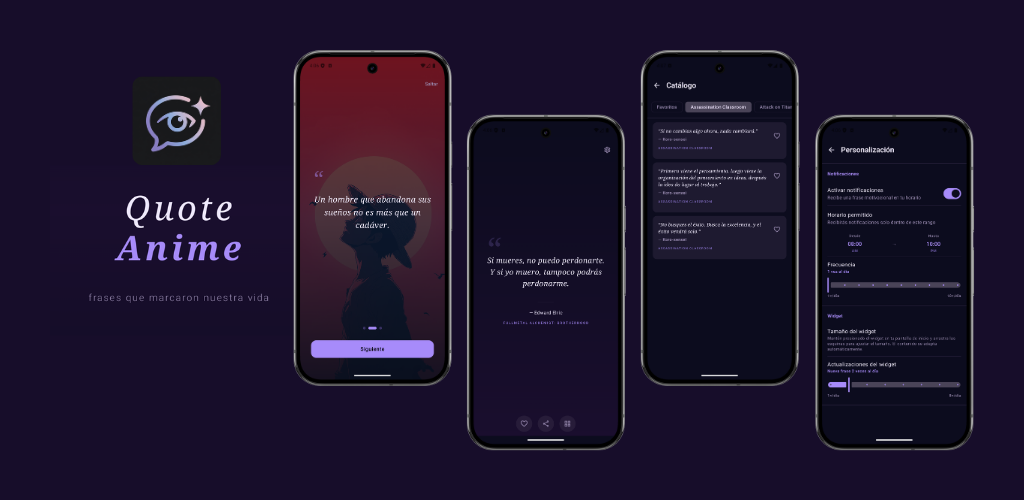
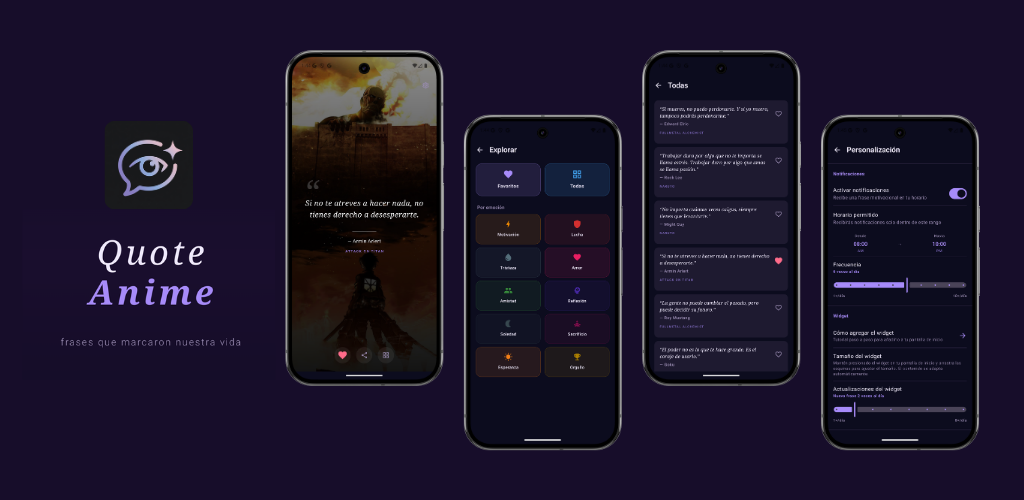
feat: update imagenes

diff --git a/src/components/Screenshots.tsx b/src/components/Screenshots.tsx
@@ -87,20 +87,20 @@ export default function Screenshots() {
         <div className="overflow-x-auto scrollbar-none flex justify-center px-6">
           <div className="flex items-end gap-5 min-w-max px-2 pb-8">
             <PhoneImage
-              src="/images/splash_app.png"
-              alt="Pantalla de inicio"
+              src="/images/home_app.png"
+              alt="Home"
               delay={0.1}
               className="translate-y-8"
             />
             <PhoneImage
-              src="/images/onboarding_app.png"
-              alt="Onboarding"
+              src="/images/category_app.png"
+              alt="Categorías"
               delay={0.2}
               className="translate-y-4"
             />
             <PhoneImage
-              src="/images/quote_app.png"
-              alt="Frase del día"
+              src="/images/quotes_app.png"
+              alt="Frases"
               delay={0}
               className="-translate-y-2"
             />
@@ -109,7 +109,7 @@ export default function Screenshots() {
               alt="Ajustes"
               delay={0.3}
               className="translate-y-4"
-            />
+            />        
           </div>
         </div>
 
